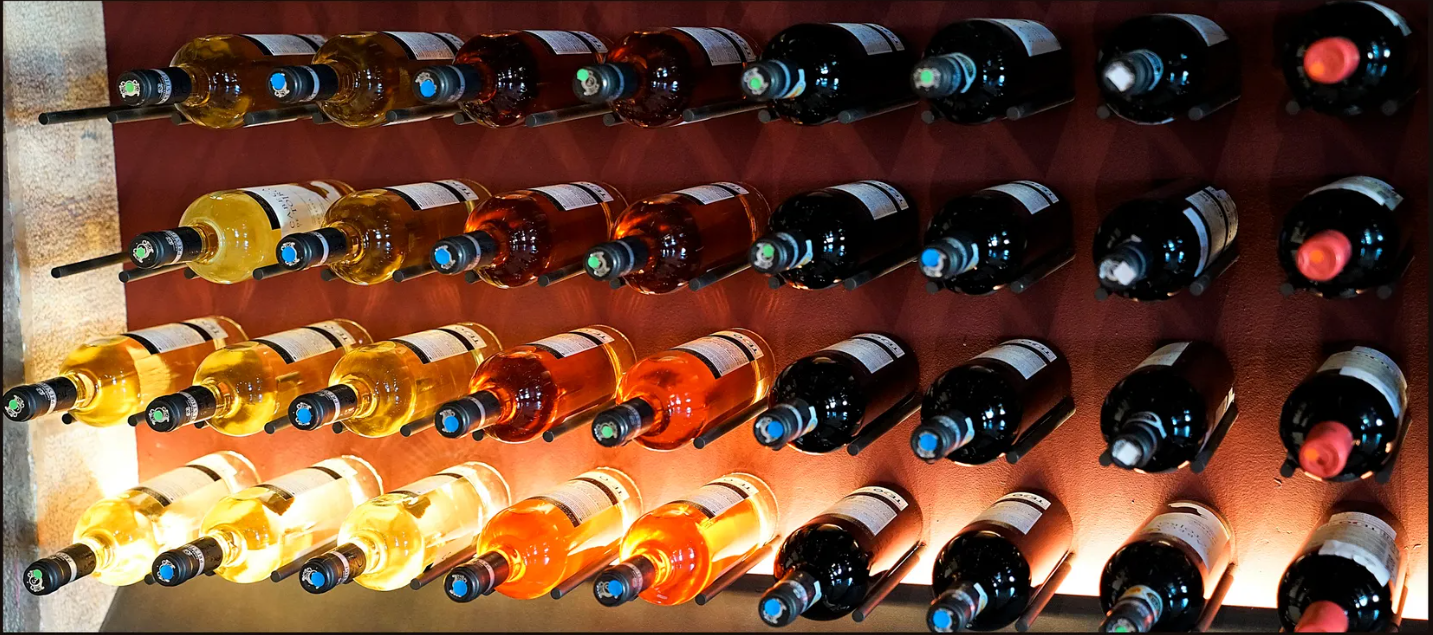
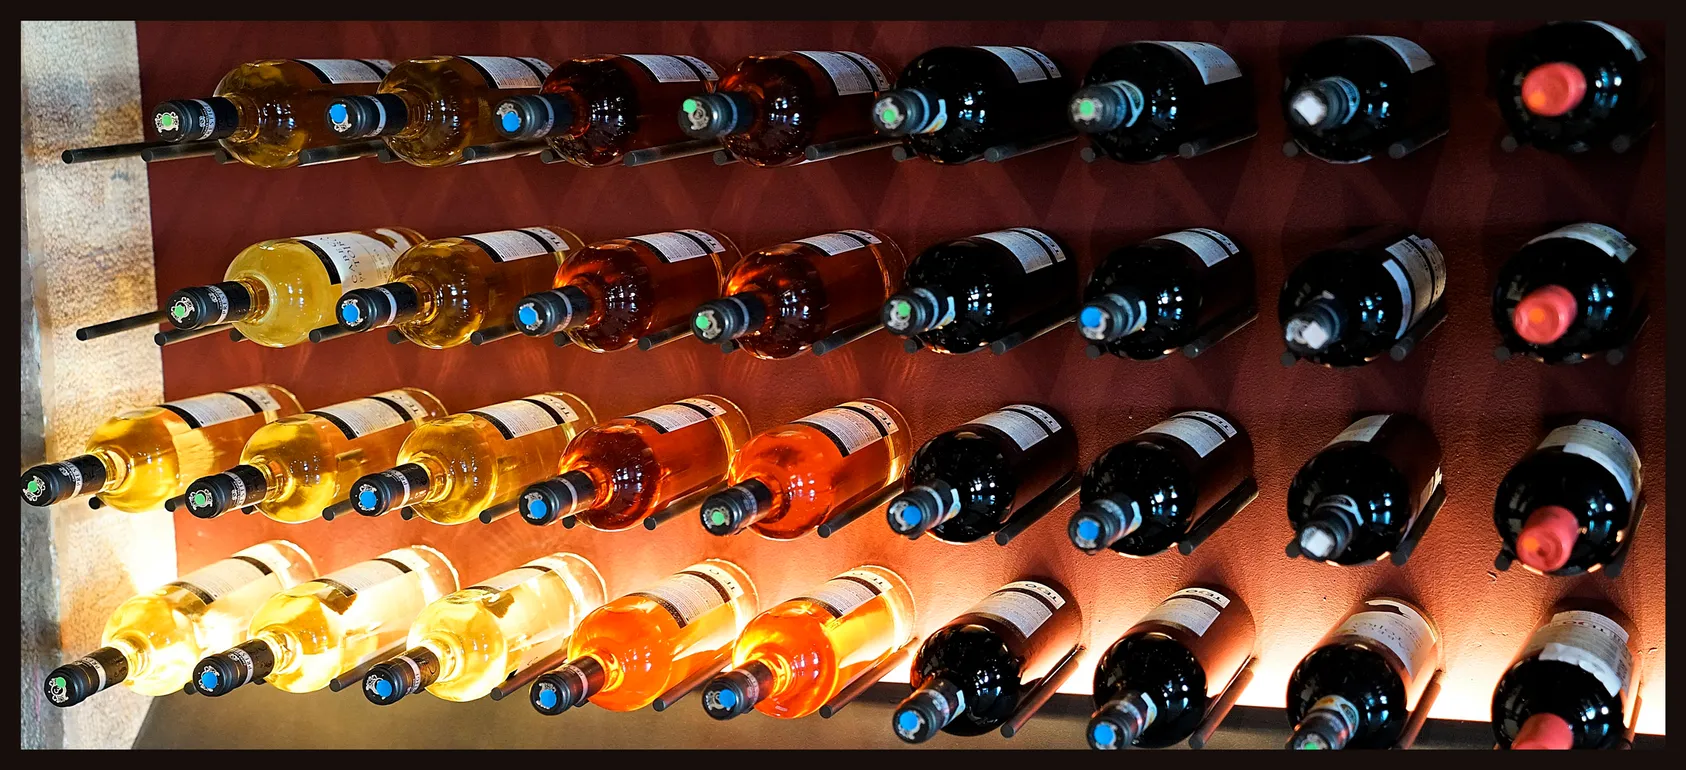
fixed image and index.history.partical.css

diff --git a/css/global.css b/css/global.css
@@ -20,7 +20,6 @@
     --font-header:"Prata", serif;
 
     /*Pavlo Naichuk */
-    --color-accent-primary: #f48c28;
     --color-button-primary: #d57136;
     --color-surface-dark: #1d1512;
     --color-text-light: #aaa;

diff --git a/css/index.history.partial.css b/css/index.history.partial.css
@@ -10,9 +10,6 @@
   max-width: 100%;
   display: block;
   margin: 0 auto;
-  border: 10px solid var(--color-accent-primary);
-  box-shadow: 0 0 0 8px #000000;
-  outline: 2px solid #000;
 }
 
 .history__timeline {
